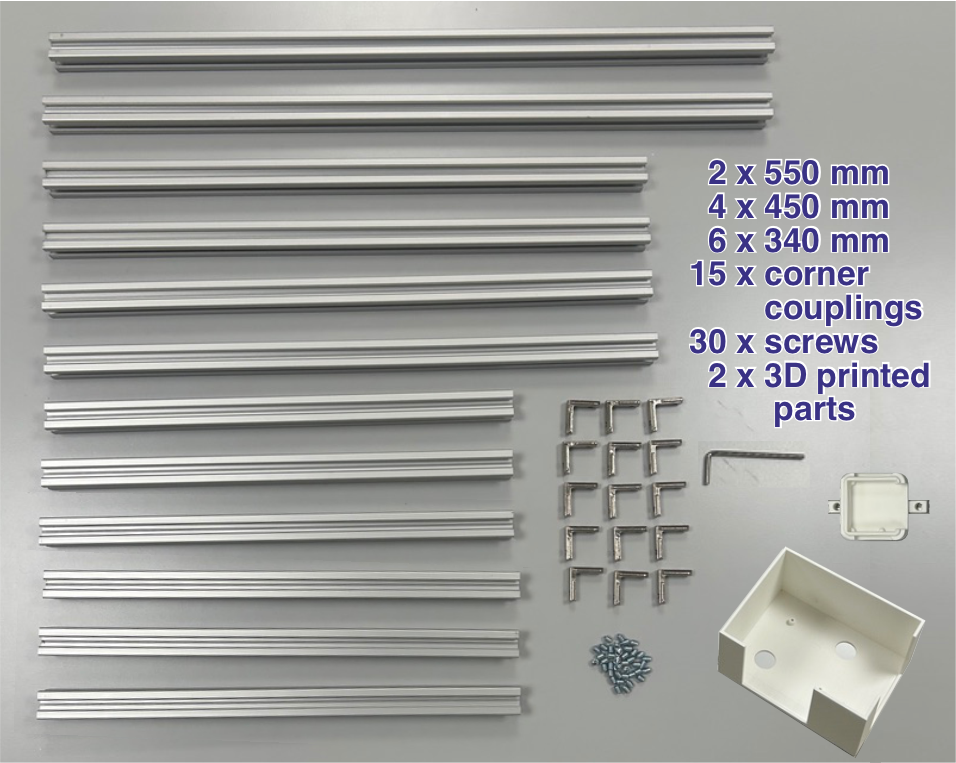
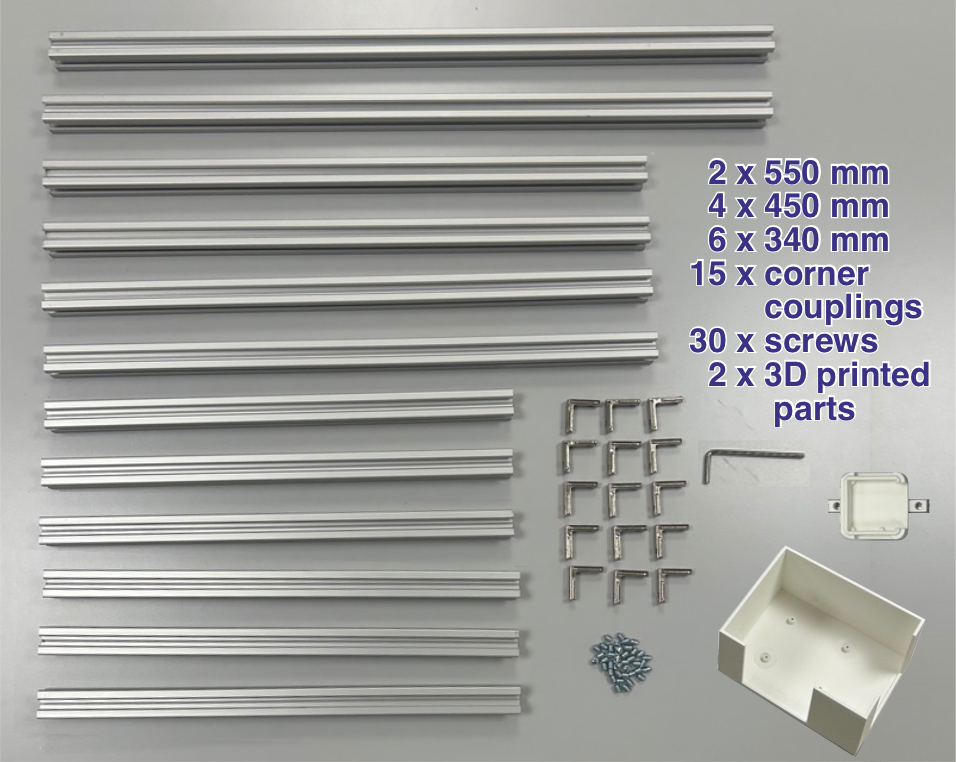
camera checks

diff --git a/village/devices/camera.py b/village/devices/camera.py
@@ -207,7 +207,6 @@ class Camera:
             settings.get("SYSTEM_DIRECTORY"), name + ".jpg"
         )
         self.output = FfmpegOutput(self.path_video)
-        self.output.error_callback = self._on_ffmpeg_error
         self.filename = ""
         self.cam.pre_callback = self.pre_process
 
@@ -254,10 +253,6 @@ class Camera:
         self.watchdog_timer = QTimer()
         self.watchdog_timer.setInterval(20000)
         self.watchdog_timer.timeout.connect(self.watchdog_tick)
-        # Restart attempts stay on the watchdog's own cadence (every 20s
-        # while frozen) -- only the alarm itself is capped at once an hour,
-        # same as the other device alarms in main.py's background_checks().
-        self.restart_alarm_timer = time_utils.Timer(3600)
 
         self.task_is_running = False
 
@@ -378,14 +373,30 @@ class Camera:
                 self.name + "_" + time_start + ".csv",
             )
         self.output = FfmpegOutput(self.path_video)
-        self.output.error_callback = self._on_ffmpeg_error
         self.is_recording = True
         self.camera_timestamp = time_utils.now_timestamp()
         try:
             self.cam.stop_encoder()
         except Exception:
             pass
-        self.cam.start_encoder(self.encoder, self.output, quality=self.encoder_quality)
+        try:
+            self.cam.start_encoder(
+                self.encoder, self.output, quality=self.encoder_quality
+            )
+        except Exception:
+            self.is_recording = False
+            try:
+                error_queue.put_nowait(
+                    (
+                        "cam",
+                        "Cam "
+                        + self.name
+                        + ": start_encoder failed\n"
+                        + traceback.format_exc(),
+                    )
+                )
+            except queue.Full:
+                pass
 
     def stop_recording(self) -> None:
         """Stops recording and saves CSV data."""
@@ -394,24 +405,6 @@ class Camera:
             self.cam.stop_encoder()
             self.save_csv()
         self.reset_values()
-
-    def _on_ffmpeg_error(self, exc: Exception) -> None:
-        """Called by FfmpegOutput when writing a frame to ffmpeg fails.
-
-        This is how a dead/crashed ffmpeg subprocess (e.g. from a bad camera
-        cable feeding it invalid data) is surfaced -- otherwise it fails
-        silently, with only ffmpeg's own unmanaged stderr printed to the
-        console. Routed through error_queue tagged "cam" (its own alarm
-        timer, separate from screen.py's "video" stimulus-playback errors),
-        so main.py's background_checks() turns it into a log.alarm().
-        """
-        try:
-            text = "".join(
-                traceback.format_exception(type(exc), exc, exc.__traceback__)
-            )
-            error_queue.put_nowait(("cam", "Cam " + self.name + ": " + text))
-        except queue.Full:
-            pass
 
     def reset_values(self) -> None:
         """Resets all tracking and recording variables to defaults."""
@@ -505,26 +498,33 @@ class Camera:
         print()
 
     def watchdog_tick(self) -> None:
-        """Checks if the camera is still producing frames, restarts if frozen."""
-        if (
-            time_utils.now_timestamp() - self.camera_timestamp > 10
-        ):  # 10 seconds without a frame
+        """Restarts the camera if it froze OR if the ffmpeg recorder died."""
+        reason = ""
+        if time_utils.now_timestamp() - self.camera_timestamp > 10:
+            reason = "no frames received for more than 10 seconds"
+        elif self.is_recording:
+            ff = getattr(self.output, "ffmpeg", None)
+            if self.output.output_broken or (ff is not None and ff.poll() is not None):
+                reason = "the ffmpeg video recorder stopped (output broken/exited)"
+        if reason:
             try:
-                self.restart_camera()
+                self.restart_camera(reason)
             except Exception:
                 pass
 
-    def restart_camera(self) -> None:
-        """Restarts the camera subprocess and watchdog."""
+    def restart_camera(self, reason: str = "not responding") -> None:
+        """Restarts the camera subprocess and watchdog.
+
+        Args:
+            reason (str): Why the restart was triggered, included in the alarm.
+        """
         self.watchdog_timer.stop()
-        if self.restart_alarm_timer.has_elapsed():
-            log.alarm(
-                "Camera "
-                + self.name
-                + " not responding. No frames received for more than "
-                + "10 seconds. Restarting the camera.",
-                subject=manager.subject.name,
+        try:
+            error_queue.put_nowait(
+                ("cam", "Camera " + self.name + ": " + reason + ". Restarting.")
             )
+        except queue.Full:
+            pass
         self.is_recording = False
         try:
             self.cam.stop_recording()
@@ -535,9 +535,14 @@ class Camera:
         except Exception:
             pass
         time.sleep(1)
-        self.cam.start()
+        started = False
+        try:
+            self.cam.start()
+            started = True
+        except Exception:
+            pass
         self.watchdog_timer.start()
-        if self.name == "CORRIDOR":
+        if started and self.name == "CORRIDOR":
             self.start_recording()
 
     def pre_process(self, request: Any) -> None:

diff --git a/docs/source/resources/image.md b/docs/source/resources/image.md
@@ -16,7 +16,17 @@ Here you can download a disk image containing the operating system (Raspberry Pi
 4. Click Choose OS → scroll down → Use custom image → select the downloaded file
 5. Click Choose Storage → select your SD card
 6. Click Write and wait for it to finish (Raspberry Pi Imager will verify the image automatically)
-7. Insert the SD card into your Raspberry Pi and power it on. On the first boot the system will automatically expand the partition to fill the SD card — this takes about a minute.
+7. Insert the SD card into your Raspberry Pi and power it on.
+
+This is a custom image, cloned from an already-configured Raspberry Pi, so the
+automatic first-boot partition expansion may not run again on your SD card. The
+following steps expand the partition by hand, so the full capacity of your card
+is available instead of being limited to the size of the card the image was
+originally created on.
+
+8. Open a terminal and run `sudo raspi-config`
+9. Go to `Advanced Options` → `Expand Filesystem`
+10. Reboot when prompted
 
 
 [IMAGER]: https://www.raspberrypi.com/software/

diff --git a/docs/source/preparation/initial.md b/docs/source/preparation/initial.md
@@ -3,7 +3,7 @@
 ### Preliminary Steps
 If you purchased a Training Village from us, the system arrives fully pre-assembled. However, should you ever need to assemble or adjust any components yourself, the process is straightforward and only requires an Allen key and a screwdriver. The setup can be easily managed by following these [instructions][INSTRUCTIONS].
 
-We provide the Raspberry Pi along with an SD card that contains both the operating system (Raspberry Pi OS) and all required software pre-installed.
+We provide the Raspberry Pi along with an SD card that already contains the operating system (Raspberry Pi OS) and all required software pre-installed. If you ever need to write this image onto a new SD card yourself, you can find the disk image and step-by-step instructions [here][IMAGE].
 
 ```{admonition} Build-It-Yourself
 :class: tip